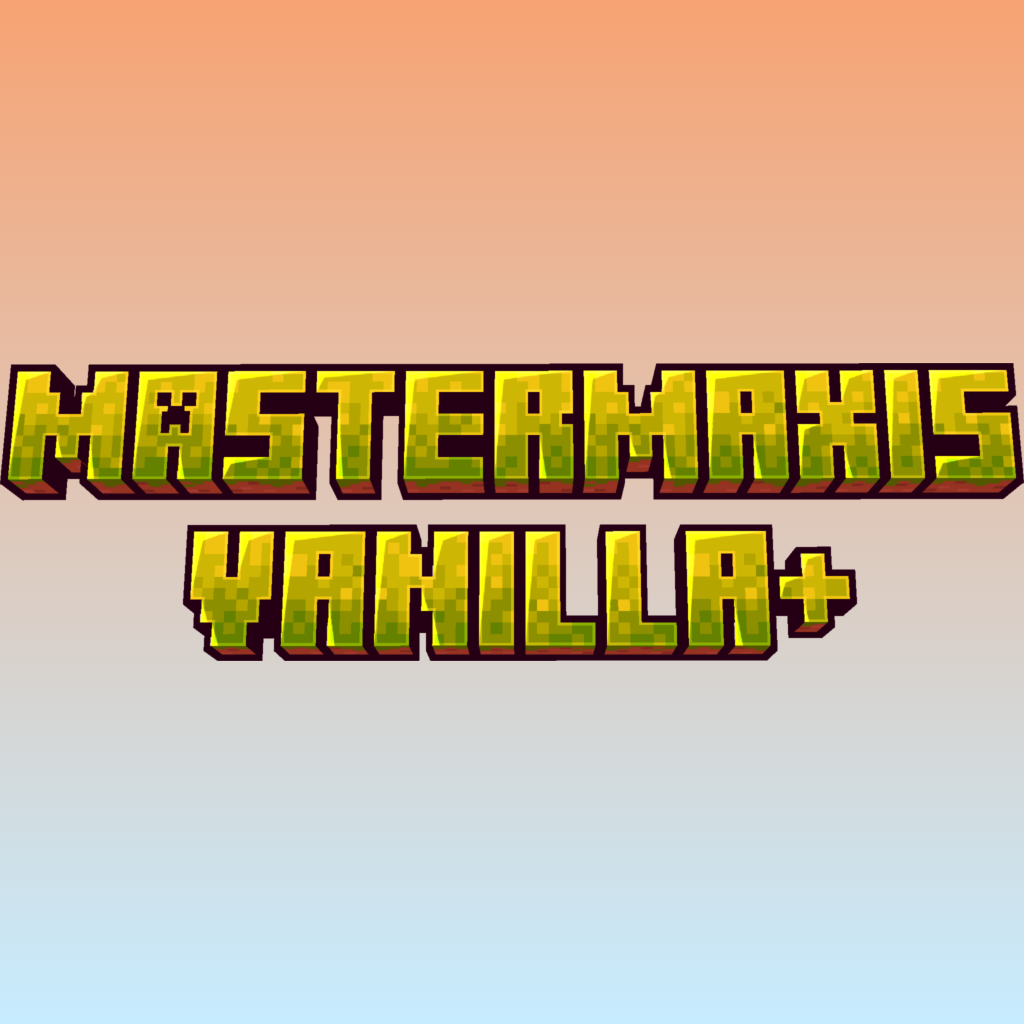
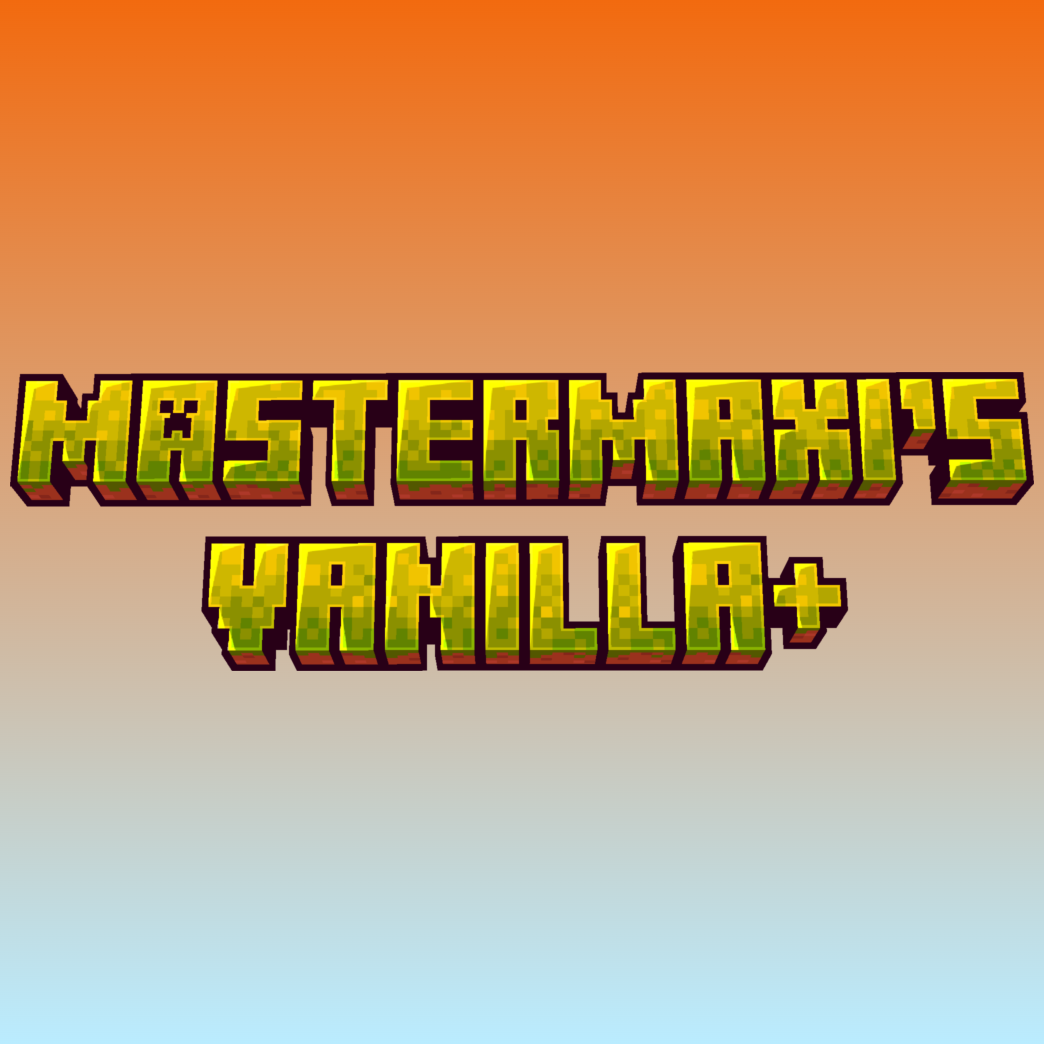
updated visuals, license and mod's json

diff --git a/README.md b/README.md
@@ -52,6 +52,7 @@ A vanilla-friendly expansion mod for Minecraft Fabric 1.21.4 that revamps the Sa
     - [Fishing Treasures](#fishing-treasures)
 11. [Crafting & Stonecutting Recipes](#-crafting--stonecutting-recipes)
 12. [Creative Inventory Tabs](#-creative-inventory-tabs)
+13. [License](#-license)
 
 ---
 
@@ -89,7 +90,7 @@ A barren, sun-baked wasteland pocket nestled within the savanna climate:
 
 ---
 
-## 🦤 Fauna & Creatures
+## 🐾 Fauna & Creatures
 
 ### The Ostrich
 Ostriches are tall, swift, flightless birds native to Savannas and Rusty Savannas.
@@ -443,3 +444,13 @@ All items and blocks from the mod have been cleanly removed from the default Min
     - **Schematics:** Heavy Bow Scheme, Heavy Hardened Bow Scheme, Iron Crossbow Scheme, Nether Crossbow Scheme.
     - **Ammunition:** Heavy Arrows, Crossbow Bolts, and tipped projectile variants.
 
+---
+
+## 📄 License
+This mod is protected under **All Rights Reserved**.      
+- **Code:** Available for reference and personal use.     
+- **Assets (Textures, Models, Sounds):** All rights       
+reserved. Do not redistribute, copy, or reuse in other      
+mods without explicit permission.
+- **Modpacks:** You are free to include this mod in any   
+public or private modpack!
